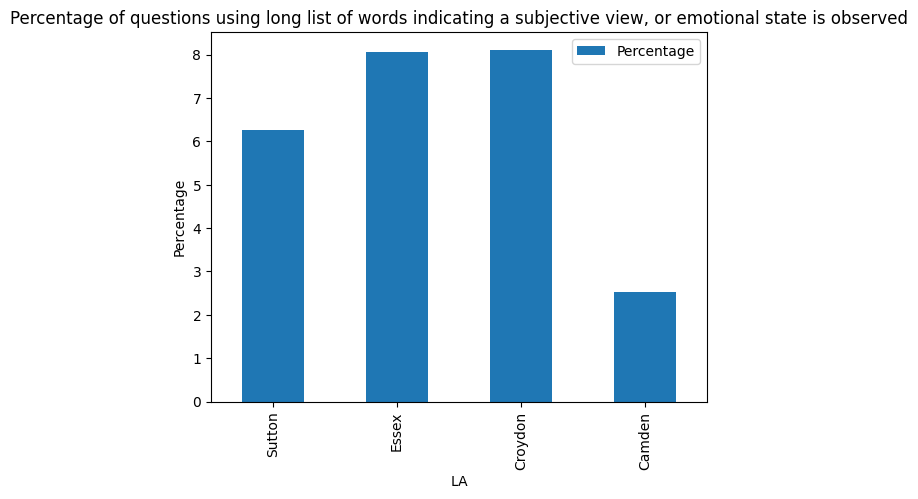
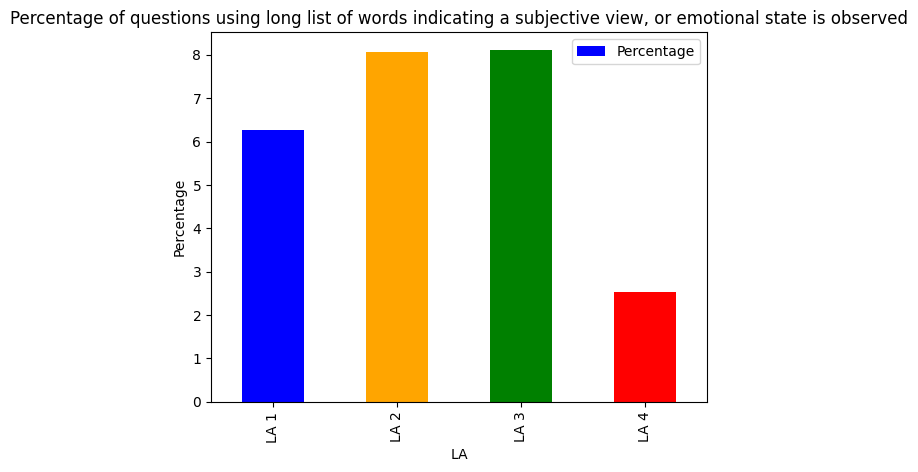
standardised LA names and colours

Changed region(s): [[0.0, 0.0297, 1.0, 0.9492], [0.488, 0.9492, 0.5185, 0.9788], [0.2135, 0.178, 0.244, 0.2076]]

diff --git a/p2a_analysis/text_analysis refactor.py b/p2a_analysis/text_analysis refactor.py
@@ -24,6 +24,11 @@ nltk.download('wordnet')
 nltk.download('omw-1.4')
 nltk.download('vader_lexicon')
 
+# LA 1 = Sutton 
+# LA 2 = Essex 
+# LA 3 = Croydon 
+# LA 4 = Camden
+
 # Setting up dfs
 df = pd.read_excel(r'/workspaces/D2I-Jupyter-Notebook-Tools/p2a_analysis/mega matrix - with analysis.xlsx',
                   'All data items')
@@ -46,10 +51,10 @@ camden['text'] = camden['camden text'].astype(str).str.lower()
 
 total = pd.concat([sutton, camden, croydon, essex], axis=0).reset_index()
 
-df_dict={'Sutton':sutton,
-         'Essex':essex,
-         'Croydon':croydon,
-         'Camden':camden,
+df_dict={'LA 1':sutton,
+         'LA 2':essex,
+         'LA 3':croydon,
+         'LA 4':camden,
          'All LAs':total
          }
 #print(df_dict['All LAs'])
@@ -163,10 +168,10 @@ for key, value in df_dict.items():
     combined_sentiment_dfs[key] = sentiment_df
 
 plt.clf()
-all_sentiments = pd.concat([combined_sentiment_dfs['Sutton'], 
-                           combined_sentiment_dfs['Essex'], 
-                           combined_sentiment_dfs['Camden'], 
-                           combined_sentiment_dfs['Croydon'],
+all_sentiments = pd.concat([combined_sentiment_dfs['LA 1'], 
+                           combined_sentiment_dfs['LA 2'], 
+                           combined_sentiment_dfs['LA 3'],
+                           combined_sentiment_dfs['LA 4'], 
                            combined_sentiment_dfs['All LAs']], axis=0).reset_index()
 all_sentiments = all_sentiments[['compound', 'LA', 'sentiment']]
 #all_sentiments = all_sentiments[all_sentiments['sentiment'] != 'neutral']
@@ -183,7 +188,7 @@ plt.savefig(f'p2a_analysis/all LA sentiment box')
 
 # positive/negative sentiment comparisons
 plt.clf()
-sent_df.plot(x="Sentiment", y=["Essex", "Sutton", "Camden", "Croydon", "All LAs"], kind="bar")
+sent_df.plot(x="Sentiment", y=["LA 1", "LA 2", "LA 3", "LA 4", "All LAs"], kind="bar")
 plt.title('Comparison of percentage of questions with positive and negative sentiments')
 plt.ylabel('Percentage')
 plt.xlabel('Sentiment')
@@ -191,10 +196,10 @@ plt.savefig(f'p2a_analysis/percentage sentiment comparison.png', bbox_inches='ti
 
 
 # Getting top ten words from each LA from tuples
-sutton_10 = [i[0] for i in fdists['Sutton']]
-essex_10 = [i[0] for i in fdists['Essex']]
-croydon_10 = [i[0] for i in fdists['Croydon']]
-camden_10 = [i[0] for i in fdists['Camden']]
+sutton_10 = [i[0] for i in fdists['LA 1']]
+essex_10 = [i[0] for i in fdists['LA 2']]
+croydon_10 = [i[0] for i in fdists['LA 3']]
+camden_10 = [i[0] for i in fdists['LA 4']]
 
 top_10s_combined = sutton_10 + essex_10 + croydon_10 + camden_10 
 #print(top_10s_combined)
@@ -226,14 +231,14 @@ for key, value in df_dict.items():
 
 
 
-all_la_counts_df['sutton percentage'] = (all_la_counts_df['Sutton count']/574)*100
-all_la_counts_df['camden percentage'] = (all_la_counts_df['Camden count']/473)*100
-all_la_counts_df['essex percentage'] = (all_la_counts_df['Essex count']/434)*100
-all_la_counts_df['croydon percentage'] = (all_la_counts_df['Croydon count']/838)*100
+all_la_counts_df['LA 1 percentage'] = (all_la_counts_df['LA 1 count']/574)*100
+all_la_counts_df['LA 2 percentage'] = (all_la_counts_df['LA 2 count']/434)*100
+all_la_counts_df['LA 3 percentage'] = (all_la_counts_df['LA 3 count']/838)*100
+all_la_counts_df['LA 4 percentage'] = (all_la_counts_df['LA 4 count']/473)*100
 all_la_counts_df['All LA percentage'] = (all_la_counts_df['All LAs count']/2319)*100
 #print(all_la_counts_df)
 plt.clf()
-all_la_counts_df.plot(x="word", y=["sutton percentage", "essex percentage", "camden percentage", "croydon percentage", "All LA percentage"], kind="bar")
+all_la_counts_df.plot(x="word", y=["LA 1 percentage", "LA 2 percentage", "LA 3 percentage", "LA 4 percentage", "All LA percentage"], kind="bar")
 plt.title('Percentage of questions from each LA using a word from the combined list of top 10 words from All LAs')
 plt.ylabel('Percentage')
 plt.xlabel('Word')
@@ -279,13 +284,13 @@ for key, value in df_dict.items():
         feels_dict_long[key] = length
 
 feels_counts_df_short = pd.DataFrame(feels_dict_short.items(), columns=['LA', 'count'])
-feels_counts_df_short.loc[feels_counts_df_short.LA == 'Sutton', 'Percentage'] = (feels_counts_df_short['count']/574)*100
-feels_counts_df_short.loc[feels_counts_df_short.LA == 'Camden', 'Percentage'] = (feels_counts_df_short['count']/473)*100
-feels_counts_df_short.loc[feels_counts_df_short.LA == 'Essex', 'Percentage'] = (feels_counts_df_short['count']/434)*100
-feels_counts_df_short.loc[feels_counts_df_short.LA == 'Croydon', 'Percentage'] = (feels_counts_df_short['count']/838)*100
+feels_counts_df_short.loc[feels_counts_df_short.LA == 'LA 1', 'Percentage'] = (feels_counts_df_short['count']/574)*100
+feels_counts_df_short.loc[feels_counts_df_short.LA == 'LA 4', 'Percentage'] = (feels_counts_df_short['count']/473)*100
+feels_counts_df_short.loc[feels_counts_df_short.LA == 'LA 2', 'Percentage'] = (feels_counts_df_short['count']/434)*100
+feels_counts_df_short.loc[feels_counts_df_short.LA == 'LA 3', 'Percentage'] = (feels_counts_df_short['count']/838)*100
 
 plt.clf()
-feels_counts_df_short.plot(x="LA", y='Percentage', kind="bar")
+feels_counts_df_short.plot(x="LA", y='Percentage', kind="bar", color=['blue', 'orange', 'green', 'red'])
 plt.title('Percentage of questions using short list of words indicating a subjective view is observed')
 plt.ylabel('Percentage')
 plt.xlabel('LA')
@@ -293,13 +298,13 @@ plt.xlabel('LA')
 plt.savefig(f'p2a_analysis/feels counts short.png', bbox_inches='tight')
 
 feels_counts_df_long = pd.DataFrame(feels_dict_long.items(), columns=['LA', 'count'])
-feels_counts_df_long.loc[feels_counts_df_long.LA == 'Sutton', 'Percentage'] = (feels_counts_df_long['count']/574)*100
-feels_counts_df_long.loc[feels_counts_df_long.LA == 'Camden', 'Percentage'] = (feels_counts_df_long['count']/473)*100
-feels_counts_df_long.loc[feels_counts_df_long.LA == 'Essex', 'Percentage'] = (feels_counts_df_long['count']/434)*100
-feels_counts_df_long.loc[feels_counts_df_long.LA == 'Croydon', 'Percentage'] = (feels_counts_df_long['count']/838)*100
+feels_counts_df_long.loc[feels_counts_df_long.LA == 'LA 1', 'Percentage'] = (feels_counts_df_long['count']/574)*100
+feels_counts_df_long.loc[feels_counts_df_long.LA == 'LA 4', 'Percentage'] = (feels_counts_df_long['count']/473)*100
+feels_counts_df_long.loc[feels_counts_df_long.LA == 'LA 2', 'Percentage'] = (feels_counts_df_long['count']/434)*100
+feels_counts_df_long.loc[feels_counts_df_long.LA == 'LA 3', 'Percentage'] = (feels_counts_df_long['count']/838)*100
 
 plt.clf()
-feels_counts_df_long.plot(x="LA", y='Percentage', kind="bar")
+feels_counts_df_long.plot(x="LA", y='Percentage', kind="bar", color=['blue', 'orange', 'green', 'red'])
 plt.title('Percentage of questions using long list of words indicating a subjective view, or emotional state is observed')
 plt.ylabel('Percentage')
 plt.xlabel('LA')
